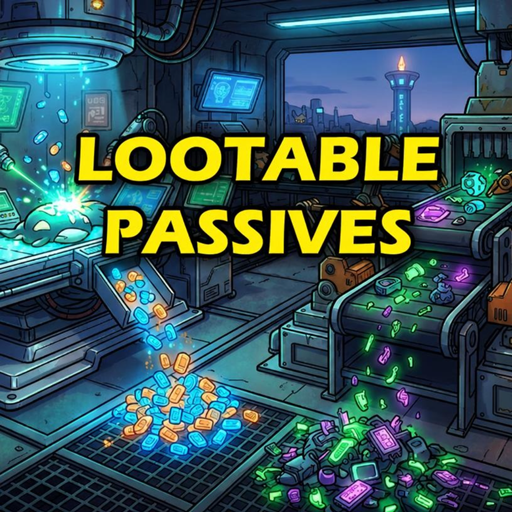
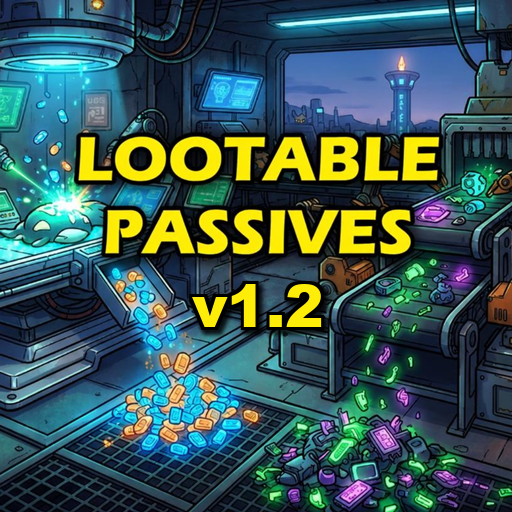
image update, image updater script, and staging script clarifications

Changed region(s): [[0.3438, 0.5312, 0.6562, 0.6562]]

diff --git a/tools/draw_thumbnail.py b/tools/draw_thumbnail.py
@@ -1,0 +1,78 @@
+"""Draws a version label under the title of assets/thumbnail-base.png.
+
+Usage: python tools/draw_thumbnail.py <output png> <label>
+
+Reads assets/thumbnail-base.png from the repo this script sits in, draws <label>
+centred under the title in yellow with a black outline and drop shadow, and
+writes the result to <output png>. The base is only read. Needs Pillow.
+
+tools/stage.ps1 -Minor and -Major run this with the thumbnail path from
+Info.json and the release version as vMAJOR.MINOR.
+
+Exits 0 on success, 1 on bad arguments, a missing base, or missing Pillow.
+"""
+import sys
+from pathlib import Path
+
+try:
+    from PIL import Image, ImageChops, ImageDraw, ImageFilter, ImageFont
+except ImportError:
+    print("draw_thumbnail.py: Pillow is not installed. Run: python -m pip install --user pillow", file=sys.stderr)
+    sys.exit(1)
+
+BASE = Path(__file__).resolve().parent.parent / 'assets' / 'thumbnail-base.png'
+FONT = r'C:\Windows\Fonts\ariblk.ttf'
+YELLOW = (253, 237, 8, 255)
+CAP_H = 43           # title letter height, px
+TOP = 253 + 31       # bottom of PASSIVES plus the gap between the title lines, px
+CENTER_X = 258       # centre of the title lines, px
+SHADOW_ALPHA = 0.85
+SHADOW_OFFSET = (3, 4)
+SHADOW_BLUR = 2
+
+
+def draw(base_path, out_path, text):
+    base = Image.open(base_path).convert('RGBA')
+    w, h = base.size
+
+    # smallest size whose digit height reaches the title's letter height
+    size = 40
+    while -ImageFont.truetype(FONT, size).getbbox('1', anchor='ls')[1] < CAP_H:
+        size += 1
+    font = ImageFont.truetype(FONT, size)
+    bb = font.getbbox(text, anchor='ls')
+    x = CENTER_X - (bb[2] - bb[0]) / 2 - bb[0]
+    y = TOP + CAP_H  # baseline
+
+    mask = Image.new('L', (w, h), 0)
+    ImageDraw.Draw(mask).text((x, y), text, font=font, fill=255, anchor='ls')
+    outline = mask.filter(ImageFilter.MaxFilter(7))
+    shadow = ImageChops.offset(outline.filter(ImageFilter.MaxFilter(3)), *SHADOW_OFFSET)
+    shadow = shadow.filter(ImageFilter.GaussianBlur(SHADOW_BLUR))
+
+    black = Image.new('RGBA', (w, h), (0, 0, 0, 255))
+    out = Image.composite(black, base, shadow.point(lambda v: int(v * SHADOW_ALPHA)))
+    out = Image.composite(black, out, outline)
+    out = Image.composite(Image.new('RGBA', (w, h), YELLOW), out, mask)
+    out.save(out_path)
+    return size
+
+
+def main(argv):
+    if len(argv) != 3 or not argv[2]:
+        print("usage: python tools/draw_thumbnail.py <output png> <label>", file=sys.stderr)
+        return 1
+    out_path, text = Path(argv[1]).resolve(), argv[2]
+    if not BASE.is_file():
+        print(f"draw_thumbnail.py: base image not found at {BASE}", file=sys.stderr)
+        return 1
+    if out_path == BASE:
+        print("draw_thumbnail.py: the output path is the base image; refusing to overwrite it", file=sys.stderr)
+        return 1
+    size = draw(BASE, out_path, text)
+    print(f"drew '{text}' on {out_path.name} at font size {size}")
+    return 0
+
+
+if __name__ == '__main__':
+    sys.exit(main(sys.argv))

diff --git a/README.md b/README.md
@@ -18,6 +18,7 @@ This repository is the mod's source, not the shipped mod. The mod is distributed
 - **Palworld Mod Uploader**, a free tool in your Steam library, and the mod's Workshop item folder, which its **Create New Mod** makes (see [Starting a mod](#starting-a-mod))
 - Node.js, plus `npm install` in the repository root for the `luaparse` package the parse check needs; `package.json` declares it
 - Lua 5.5 and luacheck 1.2 on `PATH`; Scoop installs both into your user profile without admin rights
+- Python 3 as `python` on `PATH`, with Pillow (`python -m pip install --user pillow`), for the release thumbnail that `stage.ps1 -Minor` and `-Major` draw
 
 ### Repository layout
 
@@ -27,10 +28,11 @@ This repository is the mod's source, not the shipped mod. The mod is distributed
 | `PalSchemaMods\LootablePassives\` | JSON data patches: items, DataTable rows, English strings | yes |
 | `Info.json` | Workshop package manifest | yes |
 | `LICENSE`, `thumbnail.png` | Package metadata | yes |
+| `assets\thumbnail-base.png` | The thumbnail without a version label; `thumbnail.png` is this with the release version drawn under the title | no |
 | `README.md` | This page: the development repo's documentation | no |
 | `.docs\workshop-description.txt` | The Steam Workshop page text, in Steam's BBCode | no |
 | `.docs\crash-watch.md` | The working notes document: the open crash watch, its evidence, and how to triage a recurrence | no |
-| `tools\` | `stage.ps1`, `test_staging.ps1`, `luacheck.js`, `ledger_test.lua` | no |
+| `tools\` | `stage.ps1`, `test_staging.ps1`, `draw_thumbnail.py`, `luacheck.js`, `ledger_test.lua` | no |
 | `package.json` | Declares `luaparse` for `tools\luacheck.js` | no |
 | `.luacheckrc`, `.luarc.json` | Declare UE4SS's injected globals for luacheck and the Lua language server | no |
 
@@ -99,7 +101,7 @@ This mod names the three PalSchema folders individually, without a trailing `/`,
 
 ### The edit, check, release loop
 
-There is no build step. The repository is the working copy. A plain `stage.ps1` is a local test build: it raises the patch number (`1.1.1` → `1.1.2`), sets `DebugMode` true, and ships nothing; the host machine installs it at its next launch. A multiplayer test also uploads that stage, so that a second, subscribed machine joining the host runs the same version. Only `stage.ps1 -Publish` makes a shipping release: it raises the minor number and resets the patch to 0 (`1.1.2` → `1.2.0`), the version form of a shipped release.
+There is no build step. The repository is the working copy. A plain `stage.ps1`, with no flag, is a local test build: it raises the patch number (`1.1.1` → `1.1.2`), sets `DebugMode` true, and ships nothing; the host machine installs it at its next launch. The patch bump is what makes the loader install it, as described below the version table. A multiplayer test also uploads that stage, so that a second, subscribed machine joining the host runs the same version. Only `stage.ps1 -Minor` and `stage.ps1 -Major` make a shipping release. `-Minor` raises the minor number and resets the patch to 0 (`1.1.2` → `1.2.0`). `-Major` raises the major number and resets the minor and patch to 0 (`1.2.3` → `2.0.0`). Apart from the version they behave the same, and a patch of 0 is the version form of a shipped release.
 
 ```powershell
 # edit the JSON under PalSchemaMods\ or the Lua under Scripts\, then:
@@ -108,7 +110,8 @@ luacheck Scripts                # static analysis; the baseline is 0 warnings / 
 lua tools\ledger_test.lua       # after any change to Scripts\lp\ledger.lua
 .\tools\test_staging.ps1          # after any change to tools\stage.ps1
 .\tools\stage.ps1               # local test build: patch + 1, DebugMode on; add -DryRun to preview
-.\tools\stage.ps1 -Publish      # release: minor + 1, patch 0, DebugMode off; deletes stale files
+.\tools\stage.ps1 -Minor        # minor release: minor + 1, patch 0, DebugMode off; redraws the thumbnail; deletes stale files
+.\tools\stage.ps1 -Major        # major release: major + 1, minor 0, patch 0; otherwise the same as -Minor
 # for a multiplayer test or a release: Upload To Steam from Palworld Mod Uploader
 # restart Palworld (on both machines for a multiplayer test), check the version, test, read the log
 ```
@@ -118,12 +121,15 @@ lua tools\ledger_test.lua       # after any change to Scripts\lp\ledger.lua
 | Run | `Version` | `DebugMode` and `debug` | Example |
 | --- | --- | --- | --- |
 | `.\tools\stage.ps1` | patch + 1 | `true` | `1.1.0` → `1.1.1` |
-| `.\tools\stage.ps1 -Publish` | minor + 1, patch `0` | `false` | `1.1.3` → `1.2.0` |
+| `.\tools\stage.ps1 -Minor` | minor + 1, patch `0` | `false` | `1.1.3` → `1.2.0` |
+| `.\tools\stage.ps1 -Major` | major + 1, minor `0`, patch `0` | `false` | `1.2.3` → `2.0.0` |
 
-Only a release has patch `0`. Raise the major version by editing `Info.json` by hand; the next stage counts on from there.
+Only a release has patch `0`. Giving `-Minor` and `-Major` together stops the run with nothing written.
 
-1. Preview the stage if you want: add `-DryRun` to either command. It prints the next version and changes nothing.
-2. Stage a dev build with `.\tools\stage.ps1`, or a release with `.\tools\stage.ps1 -Publish`. Commit the rewritten `Info.json` and `Scripts\settings.lua` with the change they carry.
+The default run, with no flag, is an explicit patch update, and the patch bump is not optional, even for a stage that is only tested locally and never uploaded. At launch the loader reinstalls a mod when the item folder's `Version` differs from the installed copy's (see [How a staged build reaches the game](#how-a-staged-build-reaches-the-game)). Without a new version, a changed build can sit in the item folder while the game keeps running the old one. A subscribed machine relies on that version change alone. On the host, the dev build's `DebugMode` true also makes the loader reinstall at every launch, but the patch bump is still what gives each test build a version of its own, which you can check under **Options → Mod Management** to confirm which build the game loaded.
+
+1. Preview the stage if you want: add `-DryRun` to any of the three commands. It prints the next version and changes nothing.
+2. Stage a dev build with `.\tools\stage.ps1`, or a release with `.\tools\stage.ps1 -Minor` or `.\tools\stage.ps1 -Major`. A release also redraws `thumbnail.png` with its version first (see [The release thumbnail](#the-release-thumbnail)). Commit the rewritten `Info.json` and `Scripts\settings.lua`, and for a release `thumbnail.png`, with the change they carry.
 3. For a release, or a multiplayer test, upload from **Palworld Mod Uploader**, which is software run from Steam. A local test build needs no upload. A dev build that is uploaded goes out with `DebugMode` on, which makes every subscriber's loader reinstall the mod at each launch until the next release.
 4. Restart Palworld. The host reinstalls from the item folder at launch. A subscribed machine reinstalls once Steam has downloaded the upload; for a multiplayer test, check the version under **Options → Mod Management** on both machines before testing together.
 5. If the player-facing description changed, paste `.docs\workshop-description.txt` into the Workshop page's description by hand. The uploader does not carry it, and the stage does not include it.
@@ -131,6 +137,53 @@ Only a release has patch `0`. Raise the major version by editing `Info.json` by 
 UE4SS hot reload is disabled, and the loader installs only at launch, so a running game does not pick up a change until it restarts.
 
 The mod must be enabled under **Options → Mod Management** for the loader to install it. `stage.ps1` warns when it, or one of its `Dependencies`, is not.
+
+### The release thumbnail
+
+The shipped `thumbnail.png` is `assets\thumbnail-base.png` with the release version drawn under the title as `vMAJOR.MINOR`, for example `v1.2`. The patch number is left off because a release always has patch `0`. Always draw from the base and never edit the base itself; it is the title art with no version on it.
+
+#### Label parameters
+
+These were measured from the base image's title text (512 × 512 px), so that the label matches it:
+
+| Parameter | Value | Where it comes from |
+| --- | --- | --- |
+| Font | Arial Black, `C:\Windows\Fonts\ariblk.ttf` | The closest installed match; the title's font is not an installed font |
+| Size | 58 pt | The smallest size whose digit `1` is 43 px tall, the title's letter height |
+| Fill | RGB `253, 237, 8` | The median colour of the title's yellow pixels |
+| Top of the digits | y = 284 px | The bottom of "PASSIVES" (253) plus the 31 px gap between the two title lines |
+| Horizontal centre | x = 258 px | The centre of both title lines |
+| Outline | Black, about 3 px | The text mask under a 7 px max filter |
+| Shadow | Black at 85 % opacity, offset 3 px right and 4 px down, Gaussian blur radius 2 | The outline widened 1 px further, then offset and blurred |
+
+Layers are drawn shadow first, then the outline, then the yellow fill.
+
+These values are the constants at the top of `tools\draw_thumbnail.py`.
+
+#### How it is drawn
+
+Both release runs draw it, `stage.ps1 -Minor` and `stage.ps1 -Major`. The stage works out the release version before anything else, and when `tools\draw_thumbnail.py` exists beside it, runs that script first in the write step:
+
+```powershell
+python tools\draw_thumbnail.py <repo>\thumbnail.png v1.3
+```
+
+The label is the release version without its patch number: `v1.3` from `-Minor` on `1.2.x`, and `v2.0` from `-Major`. The output path is the `Thumbnail` that `Info.json` names. The script always reads `assets\thumbnail-base.png`, never writes it, and refuses an output path equal to it. Then the stage writes `Info.json` and copies the new thumbnail with everything else.
+
+- `-Minor -DryRun` or `-Major -DryRun` prints the `draw` line with the label it would draw, and draws nothing.
+- A dev build (`stage.ps1` with neither flag) never draws, so `thumbnail.png` keeps the last release's label.
+- If the script exits nonzero, for example because Pillow is missing, the run stops with nothing written. If `python` is not on `PATH`, the run's checks stop it before that.
+- A repository with no `tools\draw_thumbnail.py` stages its thumbnail as it is, which is what keeps `stage.ps1` free of anything specific to this mod.
+
+To preview a label without staging, draw it somewhere outside the repository:
+
+```powershell
+python tools\draw_thumbnail.py $env:TEMP\preview.png v1.3
+```
+
+After a release, open `thumbnail.png`, check the label sits centred under "PASSIVES", and commit it with `Info.json`. `git status` should list `thumbnail.png` as modified and never `assets\thumbnail-base.png`.
+
+The measurements above hold only for this base image. If the title art is replaced, measure the new title again and update the table and the script's constants.
 
 ### How a staged build reaches the game
 
@@ -141,7 +194,7 @@ repo  --stage.ps1-->  <Workshop content>\1623730\<item id>\  --loader, at launch
 
 - **Finding the item folder.** `stage.ps1` uses the one folder under the Workshop content directory whose `Info.json` has this repository's `PackageName`, and stops if there is none or more than one.
 - **What it stages.** `Info.json`, the `Thumbnail` file, `LICENSE`, and every `InstallRule` target, and nothing else. It refuses an `Info.json` the uploader would accept but the game would not install, warns about a target missing from the repository, and prints where each rule installs. It overwrites the item folder's `Info.json` with the repository's, and never touches the uploader's `.workshop.json`.
-- **A mirror.** Before copying anything, it compares the item folder with the files about to be staged. A file the stage does not have stops the run with nothing changed. After you delete a file from the repository, run the next stage with `-Force`, which deletes those files and any folder left empty. `-Publish` does the same deletion without `-Force`, so a release is always an exact mirror of the repository. At the next reinstall the file is in the old manifest and not in the new install; check the game folder the first time you rely on that.
+- **A mirror.** Before copying anything, it compares the item folder with the files about to be staged. A file the stage does not have stops the run with nothing changed. After you delete a file from the repository, run the next stage with `-Force`, which deletes those files and any folder left empty. `-Minor` and `-Major` do the same deletion without `-Force`, so a release is always an exact mirror of the repository. At the next reinstall the file is in the old manifest and not in the new install; check the game folder the first time you rely on that.
 - **When the loader reinstalls.** At launch it compares `Version` in the item folder's `Info.json` with the installed copy in `<Palworld>\Mods\ManagedMods\LootablePassives\`, as plain strings. When they differ, or when `DebugMode` is true, it removes what its `InstallManifest.json` lists and copies the `InstallRule` targets in again. A subscribed machine does the same after Steam downloads an upload. Every stage raises the version, so the first launch after each stage installs it. `stage.ps1` warns if the new version equals the last upload, which a subscribed machine would not reinstall.
 - **The host installs whatever is staged.** Its next launch installs the staged copy whether or not it was uploaded. That is what makes a plain stage a local test build; for a multiplayer test, upload it too, or the subscribed machine is on an older version than the host.
 - **Only the loader writes the game folders.** For a `Lua` rule it also adds the `<PackageName> : 1` line to UE4SS's `mods.txt`, which is what starts the Lua half.
@@ -196,7 +249,8 @@ The file is installed with the rest of `Scripts\`, so the loader overwrites an e
 | `node tools\luacheck.js` | Parses every Lua file under `Scripts\`. Syntax only. |
 | `luacheck Scripts` | Static analysis: undefined globals, unused variables, shadowing. Uses `.luacheckrc`. |
 | `lua tools\ledger_test.lua` | Test of the mod: the pending-delivery ledger's file format and who it delivers to, with the engine stubbed out. |
-| `.\tools\stage.ps1` | Checks `Info.json`, sets its version and `DebugMode` (dev build by default, release with `-Publish`) and writes `DebugMode` onto every `stage:DebugMode` line, then mirrors what `Info.json` names into the Workshop item folder, ready to upload. Takes `-Publish`, `-DryRun`, `-Force`, `-GameRoot` and `-WorkshopRoot`. |
-| `.\tools\test_staging.ps1` | Test of `stage.ps1`: runs a copy against throwaway repo, Workshop and game folders in `%TEMP%` and checks versions, checks, item-folder detection, the stale stop, `-Force`, the stale deletion under `-Publish`, and `-DryRun`. Never touches the real game or Workshop folders. `-Keep` leaves the temp folders for inspection. |
+| `.\tools\stage.ps1` | Checks `Info.json`, sets its version and `DebugMode` (dev build by default, minor release with `-Minor`, major release with `-Major`), writes `DebugMode` onto every `stage:DebugMode` line, and on a release redraws the thumbnail, then mirrors what `Info.json` names into the Workshop item folder, ready to upload. Takes `-Minor`, `-Major`, `-DryRun`, `-Force`, `-GameRoot` and `-WorkshopRoot`. |
+| `.\tools\test_staging.ps1` | Test of `stage.ps1`: runs a copy against throwaway repo, Workshop and game folders in `%TEMP%` and checks versions, checks, item-folder detection, the stale stop, `-Force`, both release runs and their stale deletion and thumbnail draw, the refusal of `-Minor` with `-Major`, and `-DryRun`. Never touches the real game or Workshop folders. `-Keep` leaves the temp folders for inspection. |
+| `python tools\draw_thumbnail.py <output> <label>` | Draws `<label>` under the title of `assets\thumbnail-base.png` and writes it to `<output>`. `stage.ps1 -Minor` and `-Major` run it; run it by hand only to preview a label. |
 
 The player-facing sections at the top of this README and `.docs\workshop-description.txt` describe the same mod for two audiences, so a change to how the mod plays goes into both.

diff --git a/CLAUDE.md b/CLAUDE.md
@@ -20,14 +20,15 @@ This repo contains a Palworld mod.
 | --- | --- | --- |
 | Scripts/ | Lua runtime (main.lua, settings.lua, lp/*.lua) | ships |
 | PalSchemaMods/LootablePassives/ | JSON data patches: items, DataTable rows, English strings | ships |
-| tools/ | stage.ps1, test_staging.ps1, luacheck.js, ledger_test.lua | dev only-do not ship |
+| tools/ | stage.ps1, test_staging.ps1, draw_thumbnail.py, luacheck.js, ledger_test.lua | dev only-do not ship |
 | package.json | declares luaparse for tools/luacheck.js | dev only-do not ship |
 | CLAUDE.md | Agent guidance | dev only-do not ship |
 | README.md | GitHub page for the development repo | dev only-do not ship |
 | .docs/workshop-description.txt | Steam Workshop page text, pasted by hand | dev only-do not ship |
 | LICENSE | license | ships |
 | Info.json | Steam Workshop package manifest | ships |
-| thumbnail.png | Workshop thumbnail | ships |
+| thumbnail.png | Workshop thumbnail: `assets/thumbnail-base.png` with the release version as `vMAJOR.MINOR` drawn under the title by `tools/draw_thumbnail.py`, which `stage.ps1 -Minor` and `-Major` run; the parameters are in `README.md`'s `The release thumbnail` section | ships |
+| assets/thumbnail-base.png | the thumbnail with no version label; the base each release's `thumbnail.png` is drawn from, never edited | dev only-do not ship |
 
 - **What ships is decided by `Info.json`.** `stage.ps1` stages `Info.json`, the `Thumbnail` file, `LICENSE` when present, and every `InstallRule` `Targets` path, and nothing else. A new shipped folder is added by adding it to `Targets`; there is no list in the tools.
 
@@ -96,13 +97,14 @@ luacheck Scripts                  # static analysis
 lua tools\ledger_test.lua         # after any lp/ledger.lua edit
 .\tools\test_staging.ps1            # after any tools/stage.ps1 edit
 .\tools\stage.ps1                 # local test build: patch + 1, DebugMode true; ships nothing
-.\tools\stage.ps1 -Publish        # shipping release: minor + 1, patch 0, DebugMode false
+.\tools\stage.ps1 -Minor          # minor release: minor + 1, patch 0, DebugMode false
+.\tools\stage.ps1 -Major          # major release: major + 1, minor 0, patch 0, DebugMode false
 # ... restart Palworld (upload first for a multiplayer test), read the log ...
 ```
 
 - Staging is not optional and it is not automatic: the game loads only what the loader copied out of the item folder, so an unstaged repo edit is just an untested repo edit. `stage.ps1 -DryRun` first if you want to see what moves and the next version.
 - **Uploading is the user's step, done by hand in Palworld Mod Uploader.** An agent stages; it does not upload or claim a stage has been uploaded.
-- **A file the stage does not have stops the run.** The stage is a mirror, and the check that makes it one runs before anything is copied: a file in the item folder with no counterpart in the staged set is listed, and the run exits 1 with nothing changed (exit 0 under `-DryRun`). `-Force` deletes those files, and any directory left empty, instead of stopping. Delete a Lua module or a JSON patch from the repo and the next dev stage is `-Force`. `-Publish` implies `-Force`, so a release is always an exact mirror of the repo.
+- **A file the stage does not have stops the run.** The stage is a mirror, and the check that makes it one runs before anything is copied: a file in the item folder with no counterpart in the staged set is listed, and the run exits 1 with nothing changed (exit 0 under `-DryRun`). `-Force` deletes those files, and any directory left empty, instead of stopping. Delete a Lua module or a JSON patch from the repo and the next dev stage is `-Force`. `-Minor` and `-Major` imply `-Force`, so a release is always an exact mirror of the repo.
 - Read `UE4SS.log` filtered on:
   - `[LootablePassives]` for the mod's own messages, which trace the code paths reached
   - `PalSchema` for confirmation that the JSON loaded
@@ -118,8 +120,10 @@ lua tools\ledger_test.lua         # after any lp/ledger.lua edit
   - `ledger_test.lua` is a behaviour test for one insertion, not a data verifier: it stubs `lp.inventory` and asserts the ledger's TSV round-trip and which candidate a row is delivered to. It exists because that logic is the only part of the mod with no engine call in it.
 - .\tools\test_staging.ps1 tests the stage script. Run after ANY tools/stage.ps1 edit, and add a case for any behaviour you add. It runs a copy of `stage.ps1` against throwaway folders in `%TEMP%` and never touches the real game or Workshop folders.
 - .\tools\stage.ps1 is the only repo -> game path. Run it before every functional runtime test. Its header documents every check and option; the rules an agent must keep:
-  - **Plain `stage.ps1` is the local test build, and it is safe and proper to run before any test regardless of git state.** It increments the third (patch) part of `Version` and sets `DebugMode` true. It does not ship anything.
-  - **`-Publish` is the only shipping build.** It increments the second (minor) part, sets the patch to 0 and `DebugMode` false. `major.minor.0` is the version form of a shipped release; a nonzero patch is a local test build.
+  - **Plain `stage.ps1` is the local test build, and it is safe and proper to run before any test regardless of git state.** It increments the third (patch) part of `Version` and sets `DebugMode` true. It does not ship anything. The patch bump is required, not cosmetic: the loader reinstalls when the item folder's `Version` differs from the installed copy's, so a changed build with an unchanged version can be left uninstalled, and a subscribed machine has no other trigger. `DebugMode` true is a second trigger on the host, but only the version identifies under **Options → Mod Management** which build the game loaded. Never stage a test build by any route that leaves `Version` alone.
+  - **`-Minor` and `-Major` are the only shipping builds.** `-Minor` increments the second (minor) part and sets the patch to 0. `-Major` increments the first (major) part and sets the minor and patch to 0. Both set `DebugMode` false and otherwise behave the same; giving both stops the run. `major.minor.0` is the version form of a shipped release; a nonzero patch is a local test build.
+  - **In the script, never name a variable `$major` or `$minor`.** PowerShell variable names are case-insensitive, so those are the `-Major` and `-Minor` switches, and assigning a number to one fails every run.
+  - **A release run redraws the thumbnail.** When `tools/draw_thumbnail.py` exists, the release run calls `python tools\draw_thumbnail.py <Thumbnail path> v<major>.<minor>` before writing anything else, and a nonzero exit stops the run with nothing written. The stage computes the version and the label; the draw script owns the art and reads only `assets/thumbnail-base.png`. Without the script the thumbnail stages as it is, which keeps `stage.ps1` mod-agnostic. Commit the redrawn `thumbnail.png` with the release.
   - Every run that stages rewrites `Version` and `DebugMode` **in the repo's `Info.json`**, and writes the same `DebugMode` value onto every staged text-file line tagged `stage:DebugMode` **in the repo's copy**. Here that is the `debug` line in `Scripts/settings.lua`. Commit the rewritten files with the change they carry.
   - The `stage:DebugMode` tag is how a mod opts a runtime debug switch into the stage without the script naming any file. Don't write the literal tag anywhere else in a shipped text file: a tagged line with no `true`/`false` before the tag stops the run.
   - `-DryRun`, a failed check, and a stop on stale files all write nothing.
@@ -133,6 +137,7 @@ Lua and luacheck are installed with Scoop, into the user profile, with no admin 
 - Lua 5.5 (lua, luac on PATH) — for quick local sanity checks
 - luacheck 1.2.0 — a real static analyzer (undefined globals, unused vars, shadowing), stronger than this repo's tools/luacheck.js, which is parse-only
 - luaparse — the parser `tools/luacheck.js` uses, declared in `package.json`
+- Python 3 (`python` on PATH) with Pillow, installed with `python -m pip install --user pillow` — for `tools/draw_thumbnail.py`
 - .luacheckrc — declares UE4SS's injected globals (RegisterHook, ExecuteInGameThreadWithDelay, FindAllOf, etc.) so luacheck stops flagging the mod's own API as "undefined". Without it `luacheck Scripts` reports dozens of false positives; with it, only real findings.
 - .luarc.json — the same global list for LuaLS, so the in-editor language server and the CLI checker agree.
 
